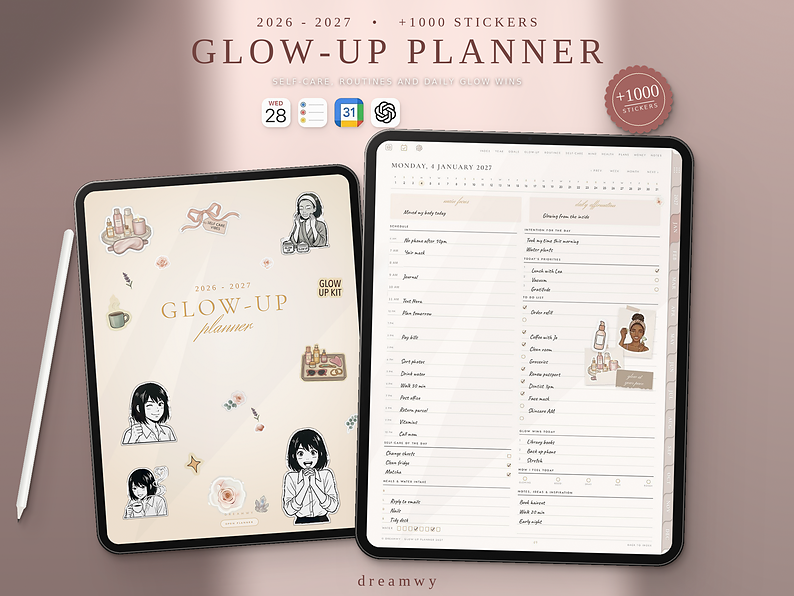
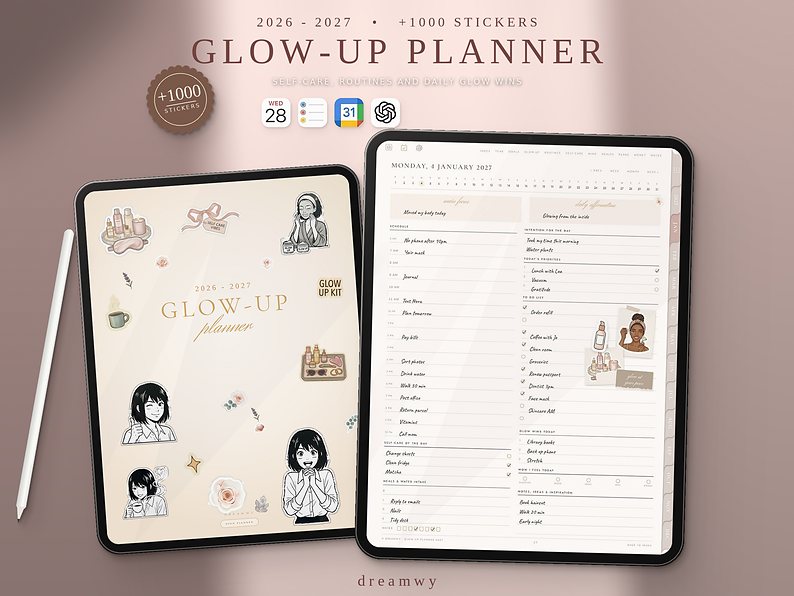
Glow-Up mockup: sticker badge same position and colour as the other planners
Claude-Session: https://claude.ai/code/session_015ZGVvYxuW9E1f2kNKHXQzt

Changed region(s): [[0.7557, 0.0906, 0.8766, 0.2416], [0.1814, 0.0906, 0.272, 0.2416]]

diff --git a/mockup/make_glowup_mockup.py b/mockup/make_glowup_mockup.py
@@ -288,14 +288,14 @@ canvas.alpha_composite(pen, (40, 690))
 
 
 # "+1000 STICKERS" seal
-sx, sy, sr = 1930, 300, 97
+sx, sy, sr = 545, 300, 97
 seal = Image.new("RGBA", (sr * 2 + 40, sr * 2 + 40), (0, 0, 0, 0))
 sd = ImageDraw.Draw(seal)
 sc = sr + 20
 for i in range(26):
     a = i * 2 * math.pi / 26
-    sd.ellipse((sc + (sr - 6) * math.cos(a) - 12, sc + (sr - 6) * math.sin(a) - 12, sc + (sr - 6) * math.cos(a) + 12, sc + (sr - 6) * math.sin(a) + 12), fill=(164, 100, 96, 255))
-sd.ellipse((sc - sr + 6, sc - sr + 6, sc + sr - 6, sc + sr - 6), fill=(164, 100, 96, 255))
+    sd.ellipse((sc + (sr - 6) * math.cos(a) - 12, sc + (sr - 6) * math.sin(a) - 12, sc + (sr - 6) * math.cos(a) + 12, sc + (sr - 6) * math.sin(a) + 12), fill=(122, 88, 72, 255))
+sd.ellipse((sc - sr + 6, sc - sr + 6, sc + sr - 6, sc + sr - 6), fill=(122, 88, 72, 255))
 sd.ellipse((sc - sr + 18, sc - sr + 18, sc + sr - 18, sc + sr - 18), outline=(236, 220, 200, 255), width=2)
 tf = ImageFont.truetype(serif, 52); sf = ImageFont.truetype(sans, 16)
 cream = (250, 242, 232, 255)
